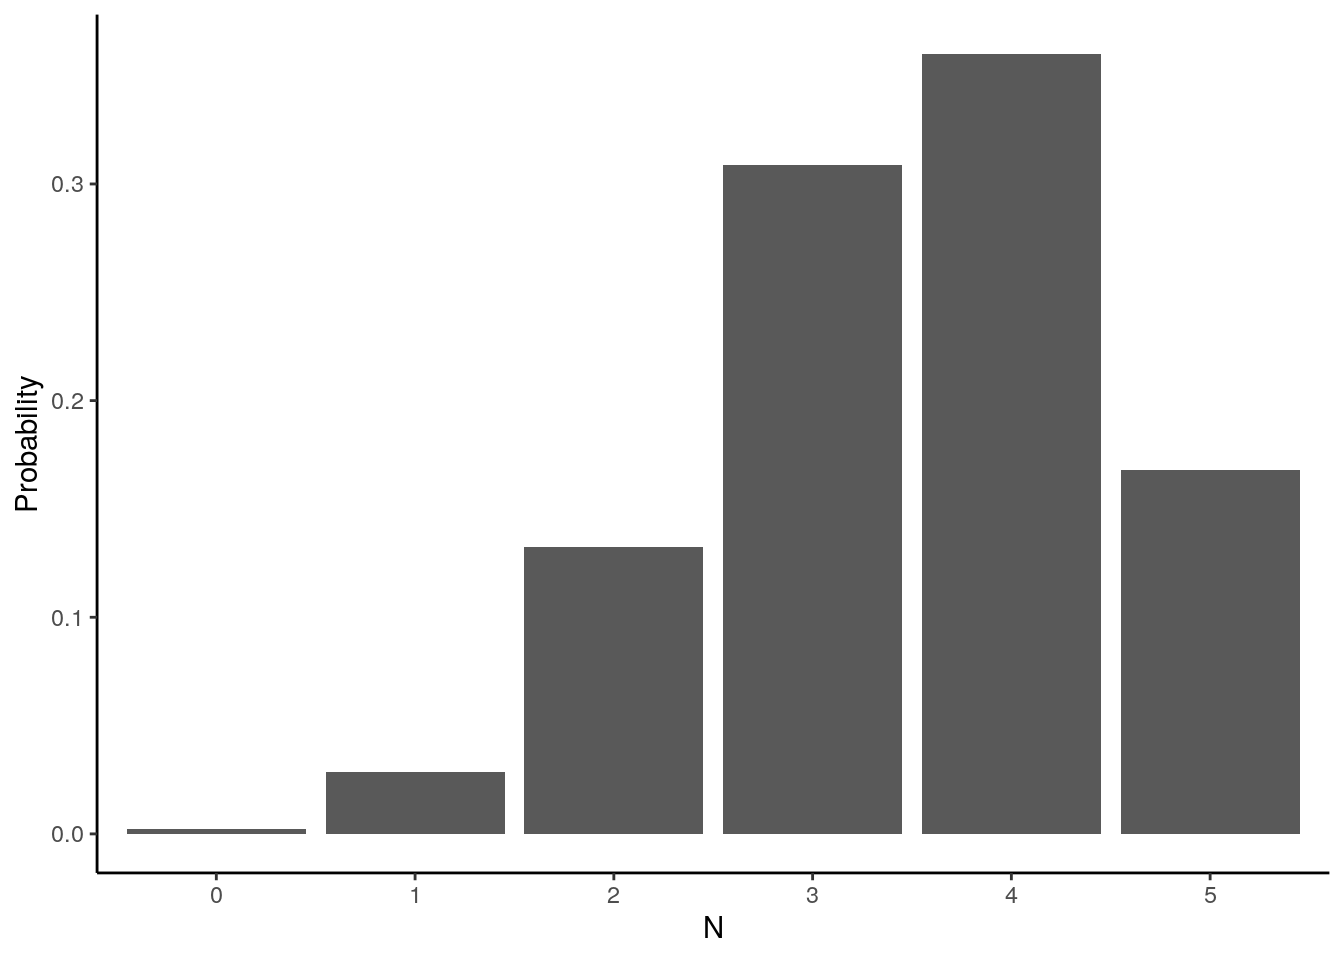
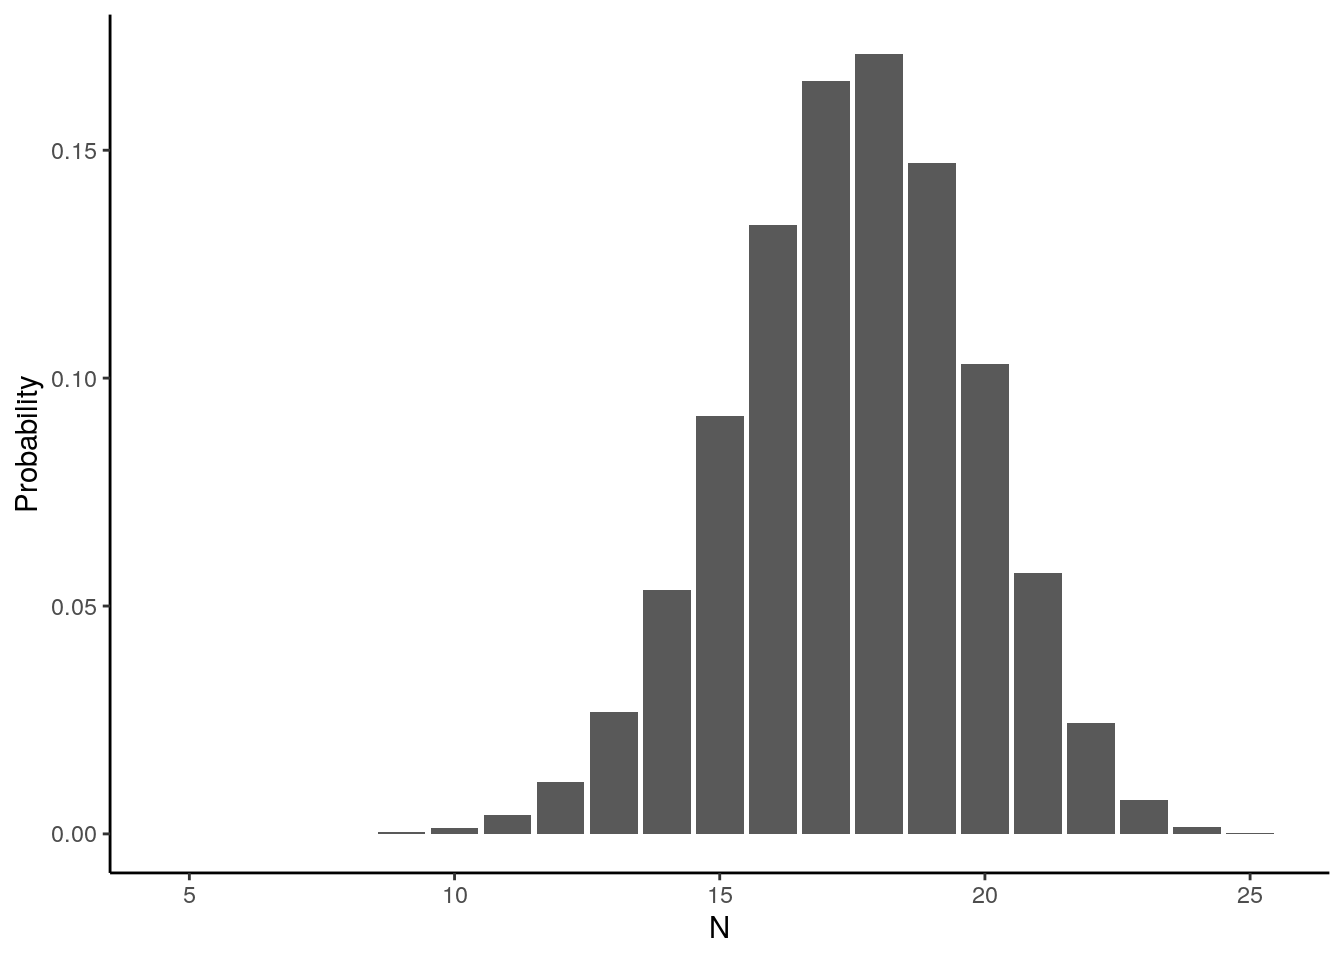
still missing how to integrate success into dbinom

diff --git a/homework/homework-01.html b/homework/homework-01.html
@@ -218,7 +218,7 @@ code span.wa { color: #60a0b0; font-weight: bold; font-style: italic; } /* Warni
 <span id="cb4-3"><a href="#cb4-3" aria-hidden="true" tabindex="-1"></a></span>
 <span id="cb4-4"><a href="#cb4-4" aria-hidden="true" tabindex="-1"></a><span class="fu">print</span>(<span class="fu">paste0</span>(<span class="st">"p = "</span>, p_threeplus))</span></code><button title="Copy to Clipboard" class="code-copy-button"><i class="bi"></i></button></pre></div>
 <div class="cell-output cell-output-stdout">
-<pre><code>[1] "p = 0.177"</code></pre>
+<pre><code>[1] "p = 0.1796"</code></pre>
 </div>
 </div>
 </section>
@@ -226,15 +226,15 @@ code span.wa { color: #60a0b0; font-weight: bold; font-style: italic; } /* Warni
 <h4 class="anchored" data-anchor-id="question-4-suppose-you-observe-w-5-water-points-but-you-forgot-to-write-down-how-many-times-the-globe-was-tossed-so-you-dont-know-the-number-of-land-points-l.-assume-that-p-0.7-and-compute-the-posterior-distribution-of-the-number-of-tosses-n.-hint-use-the-binomial-distribution.">Question 4: Suppose you observe W = 5 water points, but you forgot to write down how many times the globe was tossed, so you don’t know the number of land points L. Assume that <em>p</em> = 0.7 and compute the posterior distribution of the number of tosses <em>N</em>. Hint: Use the binomial distribution.</h4>
 <p>Before, we were solving for <em>p</em> using <span class="math display">\[ p^W(1-p)^L \]</span> Which was a beta distribution because p was a continuous variable bound between 0,1. Now we want to solve for <em>N</em>, with W and <em>p</em>. We have a success/fail dataset, with a probability of success, therefore we use the binomial distribution. We need to calculate the probability of 0-5 <em>N</em>’s resulting in 5 successes (W).</p>
 <div class="cell">
-<div class="sourceCode cell-code" id="cb6"><pre class="sourceCode r code-with-copy"><code class="sourceCode r"><span id="cb6-1"><a href="#cb6-1" aria-hidden="true" tabindex="-1"></a>W <span class="ot">&lt;-</span> <span class="dv">5</span></span>
-<span id="cb6-2"><a href="#cb6-2" aria-hidden="true" tabindex="-1"></a><span class="co"># N &amp; L = unknown</span></span>
+<div class="sourceCode cell-code" id="cb6"><pre class="sourceCode r code-with-copy"><code class="sourceCode r"><span id="cb6-1"><a href="#cb6-1" aria-hidden="true" tabindex="-1"></a><span class="co"># N &amp; L = unknown</span></span>
+<span id="cb6-2"><a href="#cb6-2" aria-hidden="true" tabindex="-1"></a>W <span class="ot">&lt;-</span> <span class="dv">5</span></span>
 <span id="cb6-3"><a href="#cb6-3" aria-hidden="true" tabindex="-1"></a>p <span class="ot">&lt;-</span> <span class="fl">0.7</span></span>
-<span id="cb6-4"><a href="#cb6-4" aria-hidden="true" tabindex="-1"></a></span>
-<span id="cb6-5"><a href="#cb6-5" aria-hidden="true" tabindex="-1"></a><span class="co"># calculate binomial distribution for 0-5 with p = 0.7</span></span>
-<span id="cb6-6"><a href="#cb6-6" aria-hidden="true" tabindex="-1"></a>x <span class="ot">&lt;-</span> <span class="fu">dbinom</span>(<span class="dv">0</span><span class="sc">:</span><span class="dv">5</span>, W, p)</span>
-<span id="cb6-7"><a href="#cb6-7" aria-hidden="true" tabindex="-1"></a><span class="fu">names</span>(x) <span class="ot">&lt;-</span> <span class="fu">as.character</span>(<span class="dv">0</span><span class="sc">:</span><span class="dv">5</span>)</span>
+<span id="cb6-4"><a href="#cb6-4" aria-hidden="true" tabindex="-1"></a>N_max <span class="ot">&lt;-</span> <span class="dv">25</span></span>
+<span id="cb6-5"><a href="#cb6-5" aria-hidden="true" tabindex="-1"></a></span>
+<span id="cb6-6"><a href="#cb6-6" aria-hidden="true" tabindex="-1"></a><span class="co"># calculate binomial distribution for with lower bound = 5 and upper bound = 25 with p = 0.7</span></span>
+<span id="cb6-7"><a href="#cb6-7" aria-hidden="true" tabindex="-1"></a>x <span class="ot">&lt;-</span> <span class="fu">dbinom</span>(W<span class="sc">:</span>N_max, N_max, p)</span>
 <span id="cb6-8"><a href="#cb6-8" aria-hidden="true" tabindex="-1"></a></span>
-<span id="cb6-9"><a href="#cb6-9" aria-hidden="true" tabindex="-1"></a><span class="fu">ggplot</span>(<span class="fu">data.frame</span>(<span class="at">data =</span> x, <span class="at">N =</span> <span class="fu">names</span>(x)), <span class="fu">aes</span>(<span class="at">x =</span> N, <span class="at">y =</span> x)) <span class="sc">+</span></span>
+<span id="cb6-9"><a href="#cb6-9" aria-hidden="true" tabindex="-1"></a><span class="fu">ggplot</span>(<span class="fu">data.frame</span>(<span class="at">data =</span> x, <span class="at">N =</span> W<span class="sc">:</span>N_max), <span class="fu">aes</span>(<span class="at">x =</span> N, <span class="at">y =</span> x)) <span class="sc">+</span></span>
 <span id="cb6-10"><a href="#cb6-10" aria-hidden="true" tabindex="-1"></a>  <span class="fu">geom_col</span>() <span class="sc">+</span></span>
 <span id="cb6-11"><a href="#cb6-11" aria-hidden="true" tabindex="-1"></a>  <span class="fu">labs</span>(<span class="at">y =</span> <span class="st">"Probability"</span>, <span class="at">x =</span> <span class="st">"N"</span>) <span class="sc">+</span> </span>
 <span id="cb6-12"><a href="#cb6-12" aria-hidden="true" tabindex="-1"></a>  <span class="fu">theme_classic</span>()</span></code><button title="Copy to Clipboard" class="code-copy-button"><i class="bi"></i></button></pre></div>
